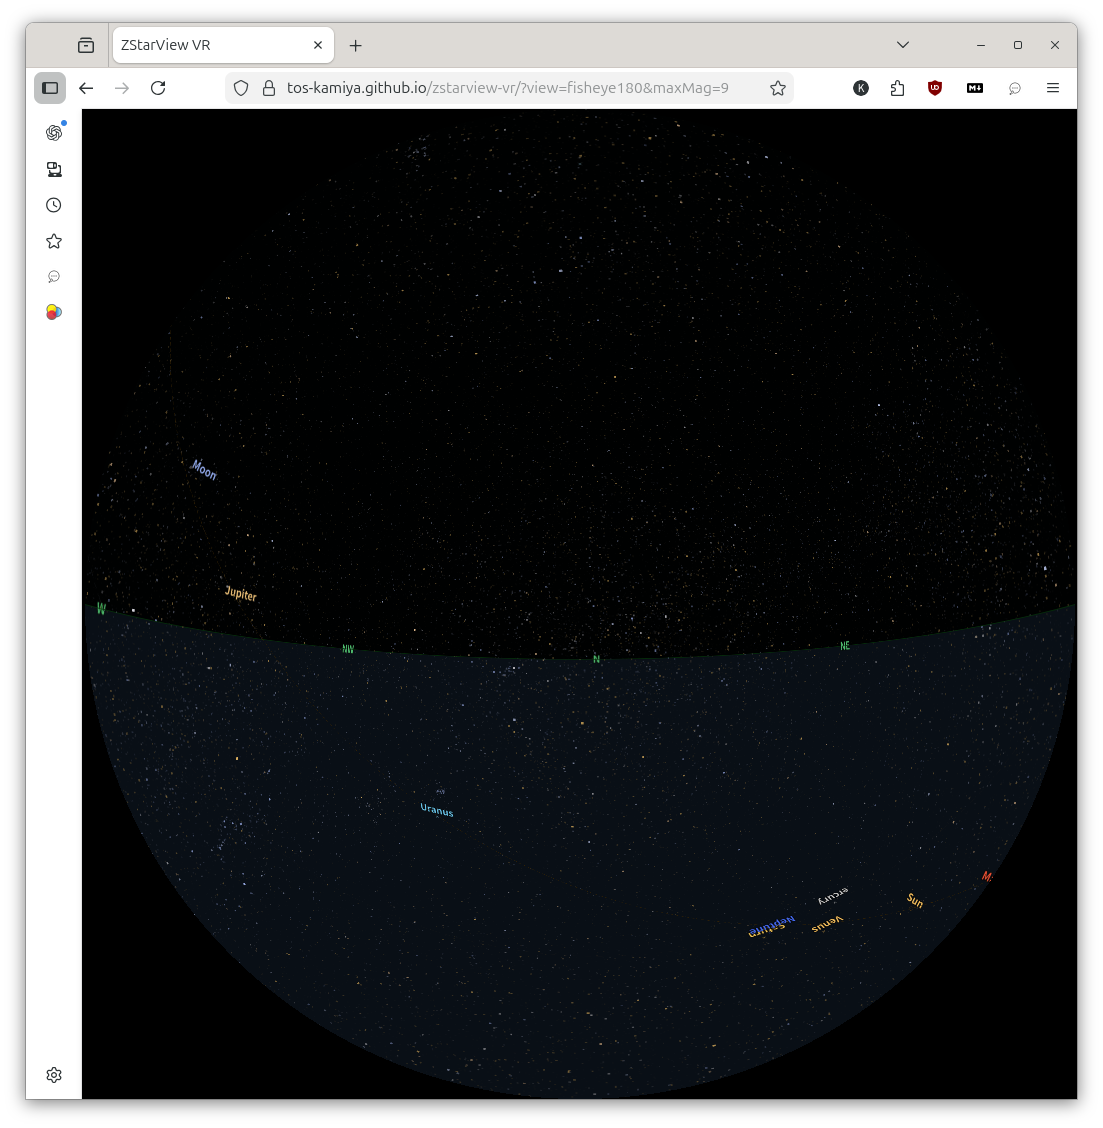
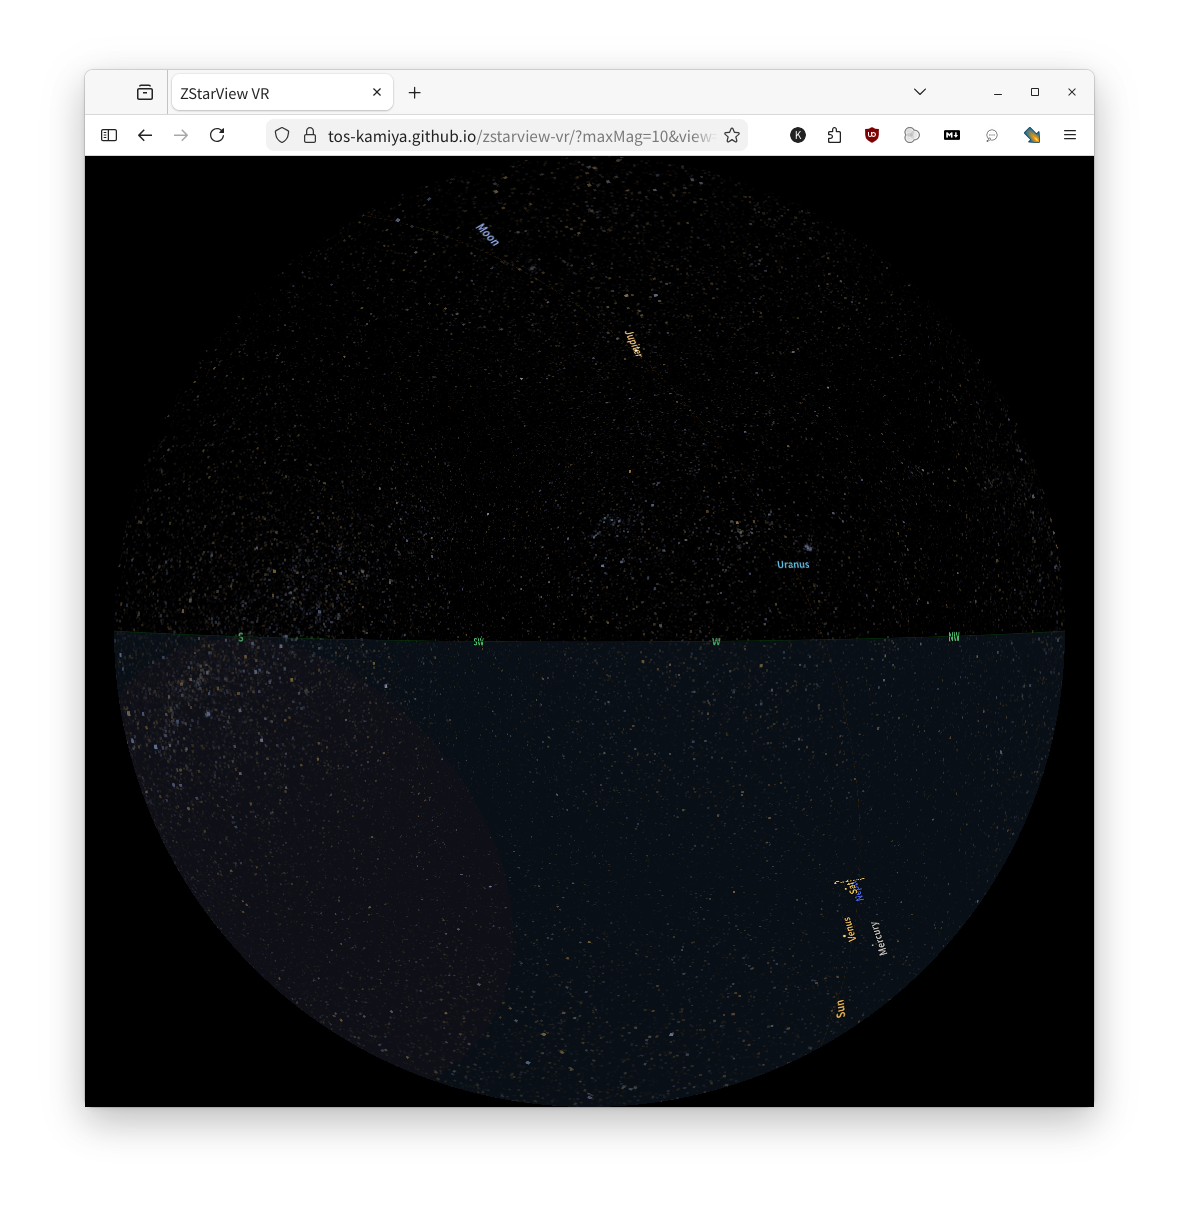
docs(images): update screenshot image

diff --git a/README-ja_JP.md b/README-ja_JP.md
@@ -87,7 +87,7 @@ VR版では既存の操作思想（ユーザー自身が向きを変える）を
 ## 使い方（デスクトップモード）
 
 1. `?view=fisheye180` を付けて開く:
-   - `https://tos-kamiya.github.io/zstarview-vr/?view=fisheye180`
+   - https://tos-kamiya.github.io/zstarview-vr/?maxMag=10&view=fisheye180
 2. 矢印キー操作:
    - `←/→` で方位
    - `↑/↓` で仰角

diff --git a/README.md b/README.md
@@ -86,7 +86,7 @@ The VR variant keeps the existing interaction model ("the user turns to face the
 ## Usage (Desktop Mode)
 
 1. Open with `?view=fisheye180`:
-   - `https://tos-kamiya.github.io/zstarview-vr/?view=fisheye180`
+   - https://tos-kamiya.github.io/zstarview-vr/?maxMag=10&view=fisheye180
 2. Use arrow keys:
    - `←/→` for azimuth
    - `↑/↓` for altitude
